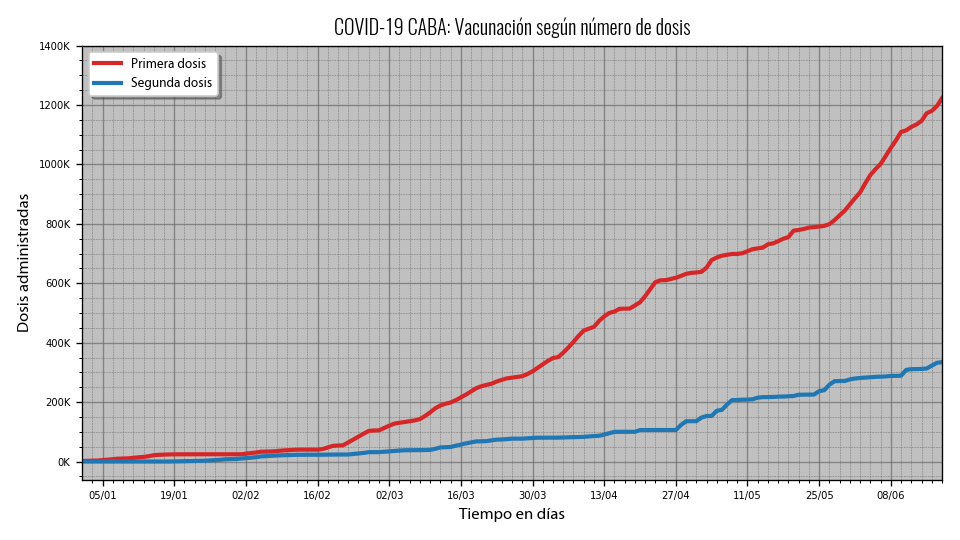
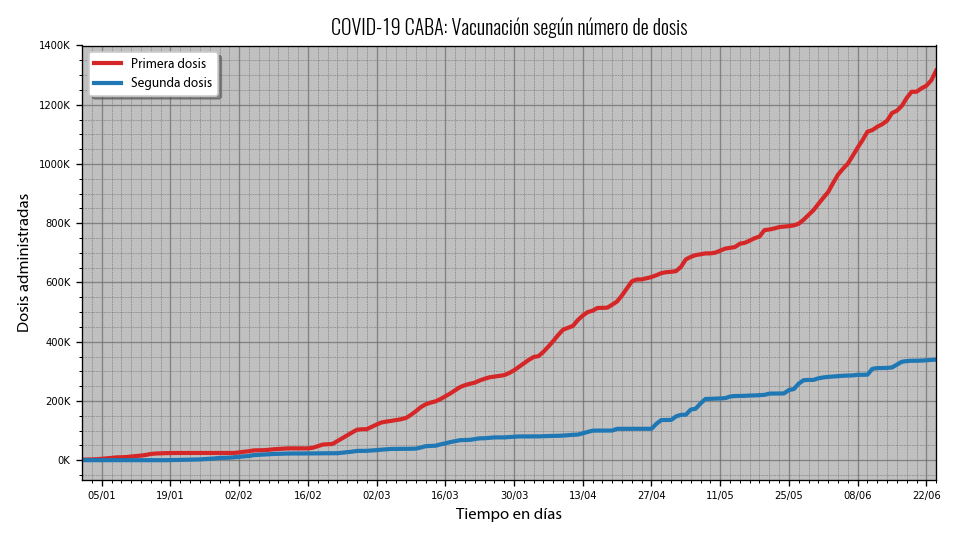
Updating charts...

Changed region(s): [[0.0312, 0.0296, 1.0, 0.9778], [0.0312, 0.0593, 0.0938, 0.0889]]

diff --git a/chart_config.py b/chart_config.py
@@ -26,7 +26,7 @@ language = 1 #0 = english, 1 = spanish
 legend_text_size = 8
 plot_scale = "linear"
 start_date = "2020-11-01"
-end_date = "2021-06-18"
+end_date = "2021-06-24"
 week_interval = 3
 v_start_date = "2021-01-01"
 v_week_interval = 2
